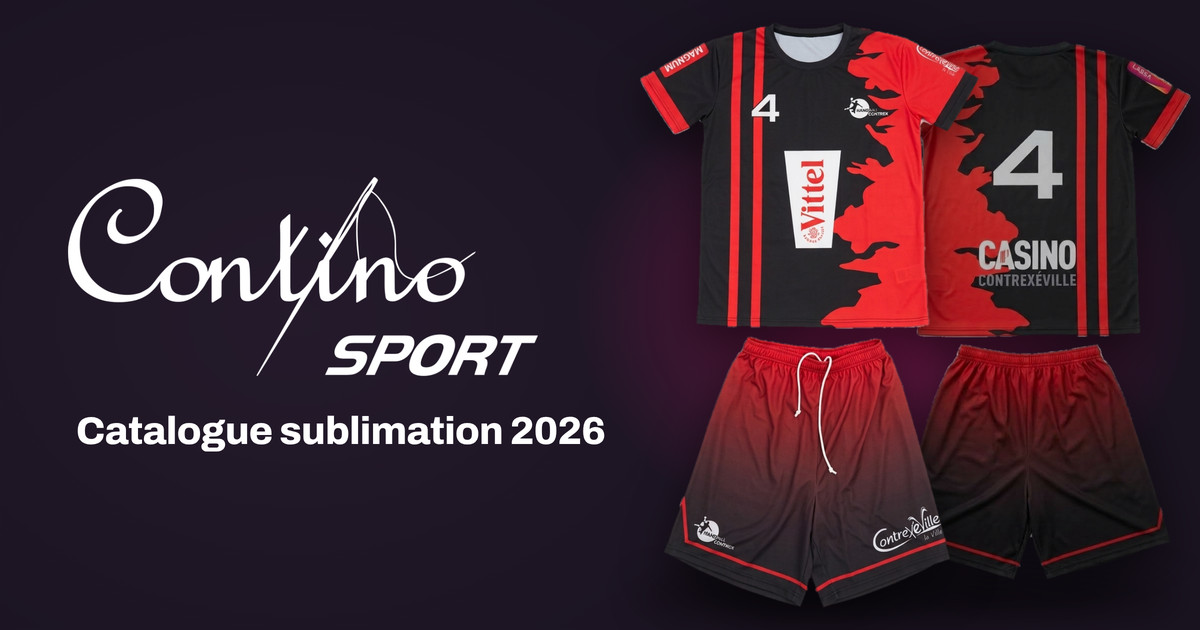
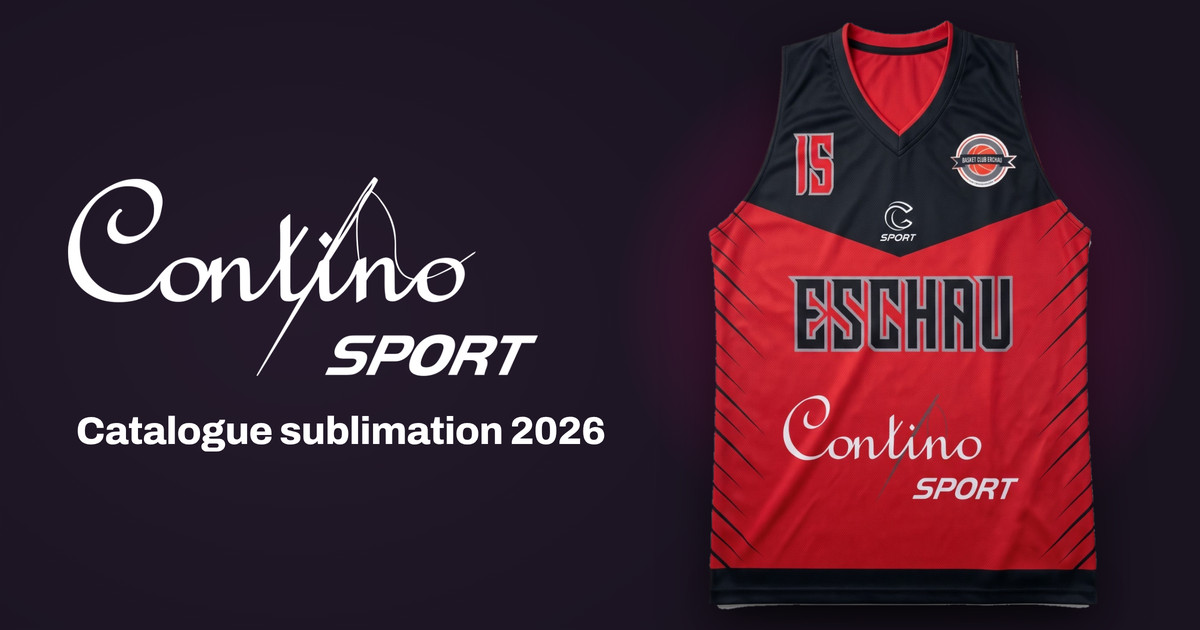
Aperçu de partage : maillot de basket au design Contino Sport à la place du set Vittel

diff --git a/2026-10-05_catalogue-sublimation-contino-sport.html b/2026-10-05_catalogue-sublimation-contino-sport.html
@@ -20,7 +20,7 @@
 <meta property="og:image:type" content="image/jpeg">
 <meta property="og:image:width" content="1200">
 <meta property="og:image:height" content="630">
-<meta property="og:image:alt" content="Logo Contino Sport à côté d'un ensemble maillot et short sublimé, vu de face et de dos">
+<meta property="og:image:alt" content="Logo Contino Sport à côté d'un maillot de basket sublimé, design Contino Sport pour le club d'Eschau">
 <meta name="twitter:card" content="summary_large_image">
[2 lines of base64/hex data omitted]

diff --git a/site/index.html b/site/index.html
@@ -19,7 +19,7 @@
 <meta property="og:image:type" content="image/jpeg">
 <meta property="og:image:width" content="1200">
 <meta property="og:image:height" content="630">
-<meta property="og:image:alt" content="Logo Contino Sport à côté d'un ensemble maillot et short sublimé, vu de face et de dos">
+<meta property="og:image:alt" content="Logo Contino Sport à côté d'un maillot de basket sublimé, design Contino Sport pour le club d'Eschau">
 <meta name="twitter:card" content="summary_large_image">
 <link rel="icon" href="c-sport-32.png" sizes="32x32" type="image/png">
 <link rel="icon" href="c-sport-192.png" sizes="192x192" type="image/png">

diff --git a/site/personnaliser.html b/site/personnaliser.html
@@ -15,7 +15,7 @@
 <meta property="og:image:type" content="image/jpeg">
 <meta property="og:image:width" content="1200">
 <meta property="og:image:height" content="630">
-<meta property="og:image:alt" content="Logo Contino Sport à côté d'un ensemble maillot et short sublimé, vu de face et de dos">
+<meta property="og:image:alt" content="Logo Contino Sport à côté d'un maillot de basket sublimé, design Contino Sport pour le club d'Eschau">
 <meta name="twitter:card" content="summary_large_image">
 <meta name="color-scheme" content="light dark">
 <meta name="theme-color" content="#FFFFFF" media="(prefers-color-scheme: light)">
